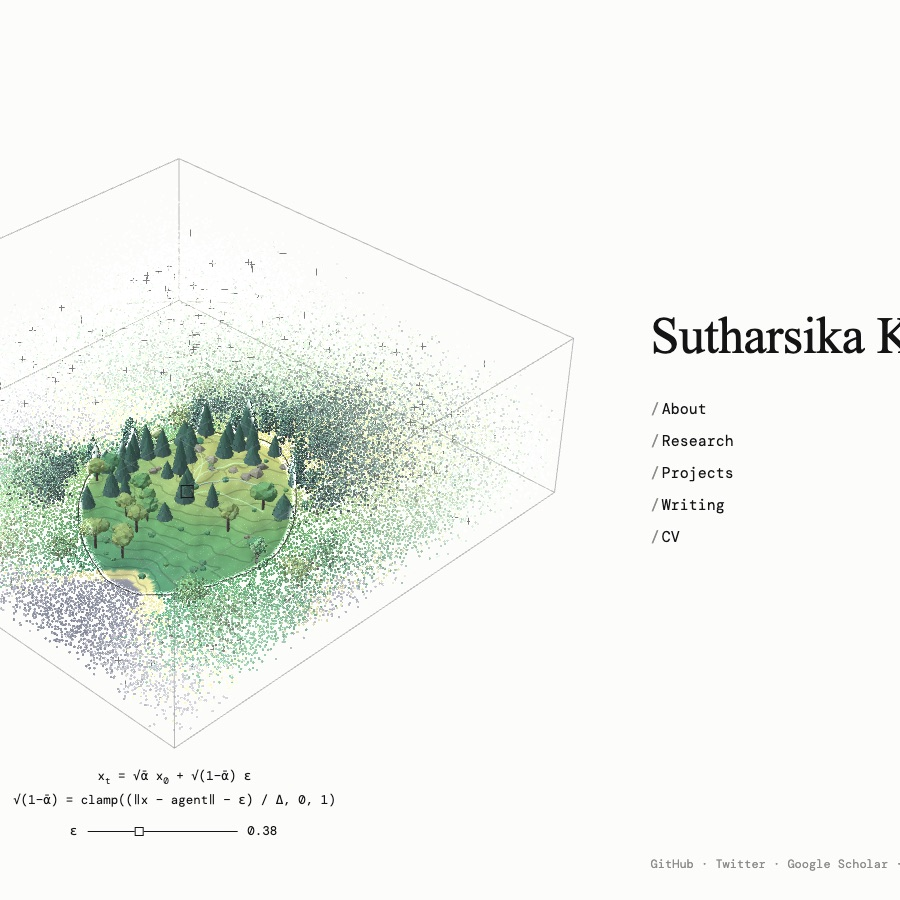
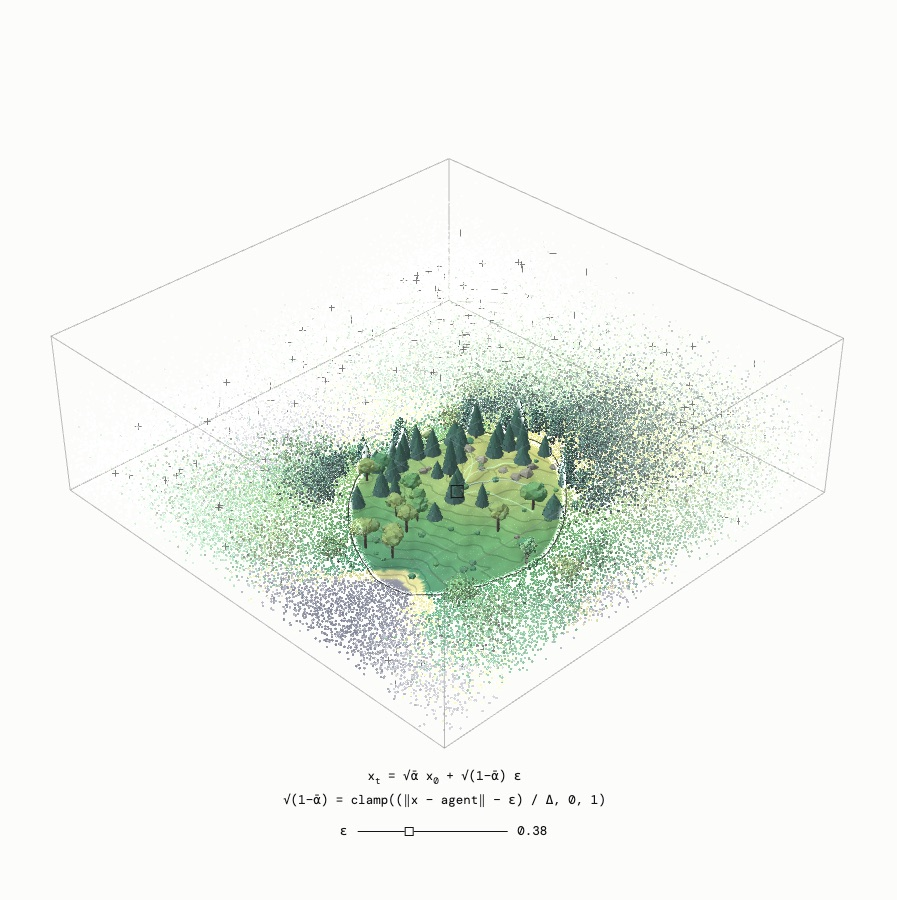
changes

diff --git a/assets/world-model.js b/assets/world-model.js
@@ -342,7 +342,11 @@ export async function mountWorldModel(root) {
       grid.push([v, b, c, .12], [v, b, f, .12], [a, b, v, .12], [d, b, v, .12]); } }
   let W = 0, H = 0, dpr = 1;
   function resize() { dpr = Math.min(2, devicePixelRatio || 1); W = cv.clientWidth; H = cv.clientHeight;
-    cv.width = Math.max(1, W * dpr); cv.height = Math.max(1, H * dpr); gl.viewport(0, 0, cv.width, cv.height); requestDraw(); }
+    const bw = Math.max(1, Math.round(W * dpr)), bh = Math.max(1, Math.round(H * dpr));
+    if (bw !== cv.width || bh !== cv.height) { cv.width = bw; cv.height = bh; }
+    gl.viewport(0, 0, cv.width, cv.height);
+    if (!disposed && W && H) frame(performance.now());   // repaint now so a resized buffer never shows stale/uninitialised pixels
+    requestDraw(); }
 
   gl.clearColor(...BG, 1);
   gl.enable(gl.BLEND); gl.blendFunc(gl.SRC_ALPHA, gl.ONE_MINUS_SRC_ALPHA); gl.enable(gl.DEPTH_TEST);
@@ -435,6 +439,8 @@ export async function mountWorldModel(root) {
   const onLost = e => { e.preventDefault(); root.classList.remove('is-live'); onScreen = false; };
   document.addEventListener('visibilitychange', onVis);
   cv.addEventListener('webglcontextlost', onLost);
+  const ro = new ResizeObserver(resize);          // fires on any layout change (sidebar toggle, fonts, window resize), not just window resize
+  ro.observe(cv);
   window.addEventListener('resize', resize);
   io.observe(root);
   resize(); kick(); requestDraw();
@@ -442,7 +448,7 @@ export async function mountWorldModel(root) {
   return function dispose() {
     disposed = true;
     cancelAnimationFrame(raf); raf = 0;
-    io.disconnect();
+    io.disconnect(); ro.disconnect();
     document.removeEventListener('visibilitychange', onVis);
     window.removeEventListener('resize', resize);
     window.removeEventListener('pointerup', onUp); window.removeEventListener('pointercancel', onUp);

diff --git a/index.html b/index.html
@@ -28,7 +28,7 @@
 <a class="skip" href="#main-nav">Skip to navigation</a>
 <main class="page">
   <section class="wm" id="wm" aria-label="Interactive world-model animation">
-    <img class="poster" src="/assets/world-model-fallback.jpg" width="900" height="900" fetchpriority="high"
+    <img class="poster" src="/assets/world-model-fallback.jpg" width="897" height="900" fetchpriority="high"
          alt="A square terrain diorama in a thin box: smooth rendered land near a moving agent, dissolving into noisy particles farther away.">
     <canvas role="img" tabindex="-1" aria-label="3D world in a box: fully rendered within an epsilon neighborhood of a moving agent, diffused into noisy particles beyond it. Drag to orbit."></canvas>
     <svg class="ov" aria-hidden="true"><rect data-agent-box width="12" height="12" fill="none" stroke="#141414" stroke-width="1"/></svg>
